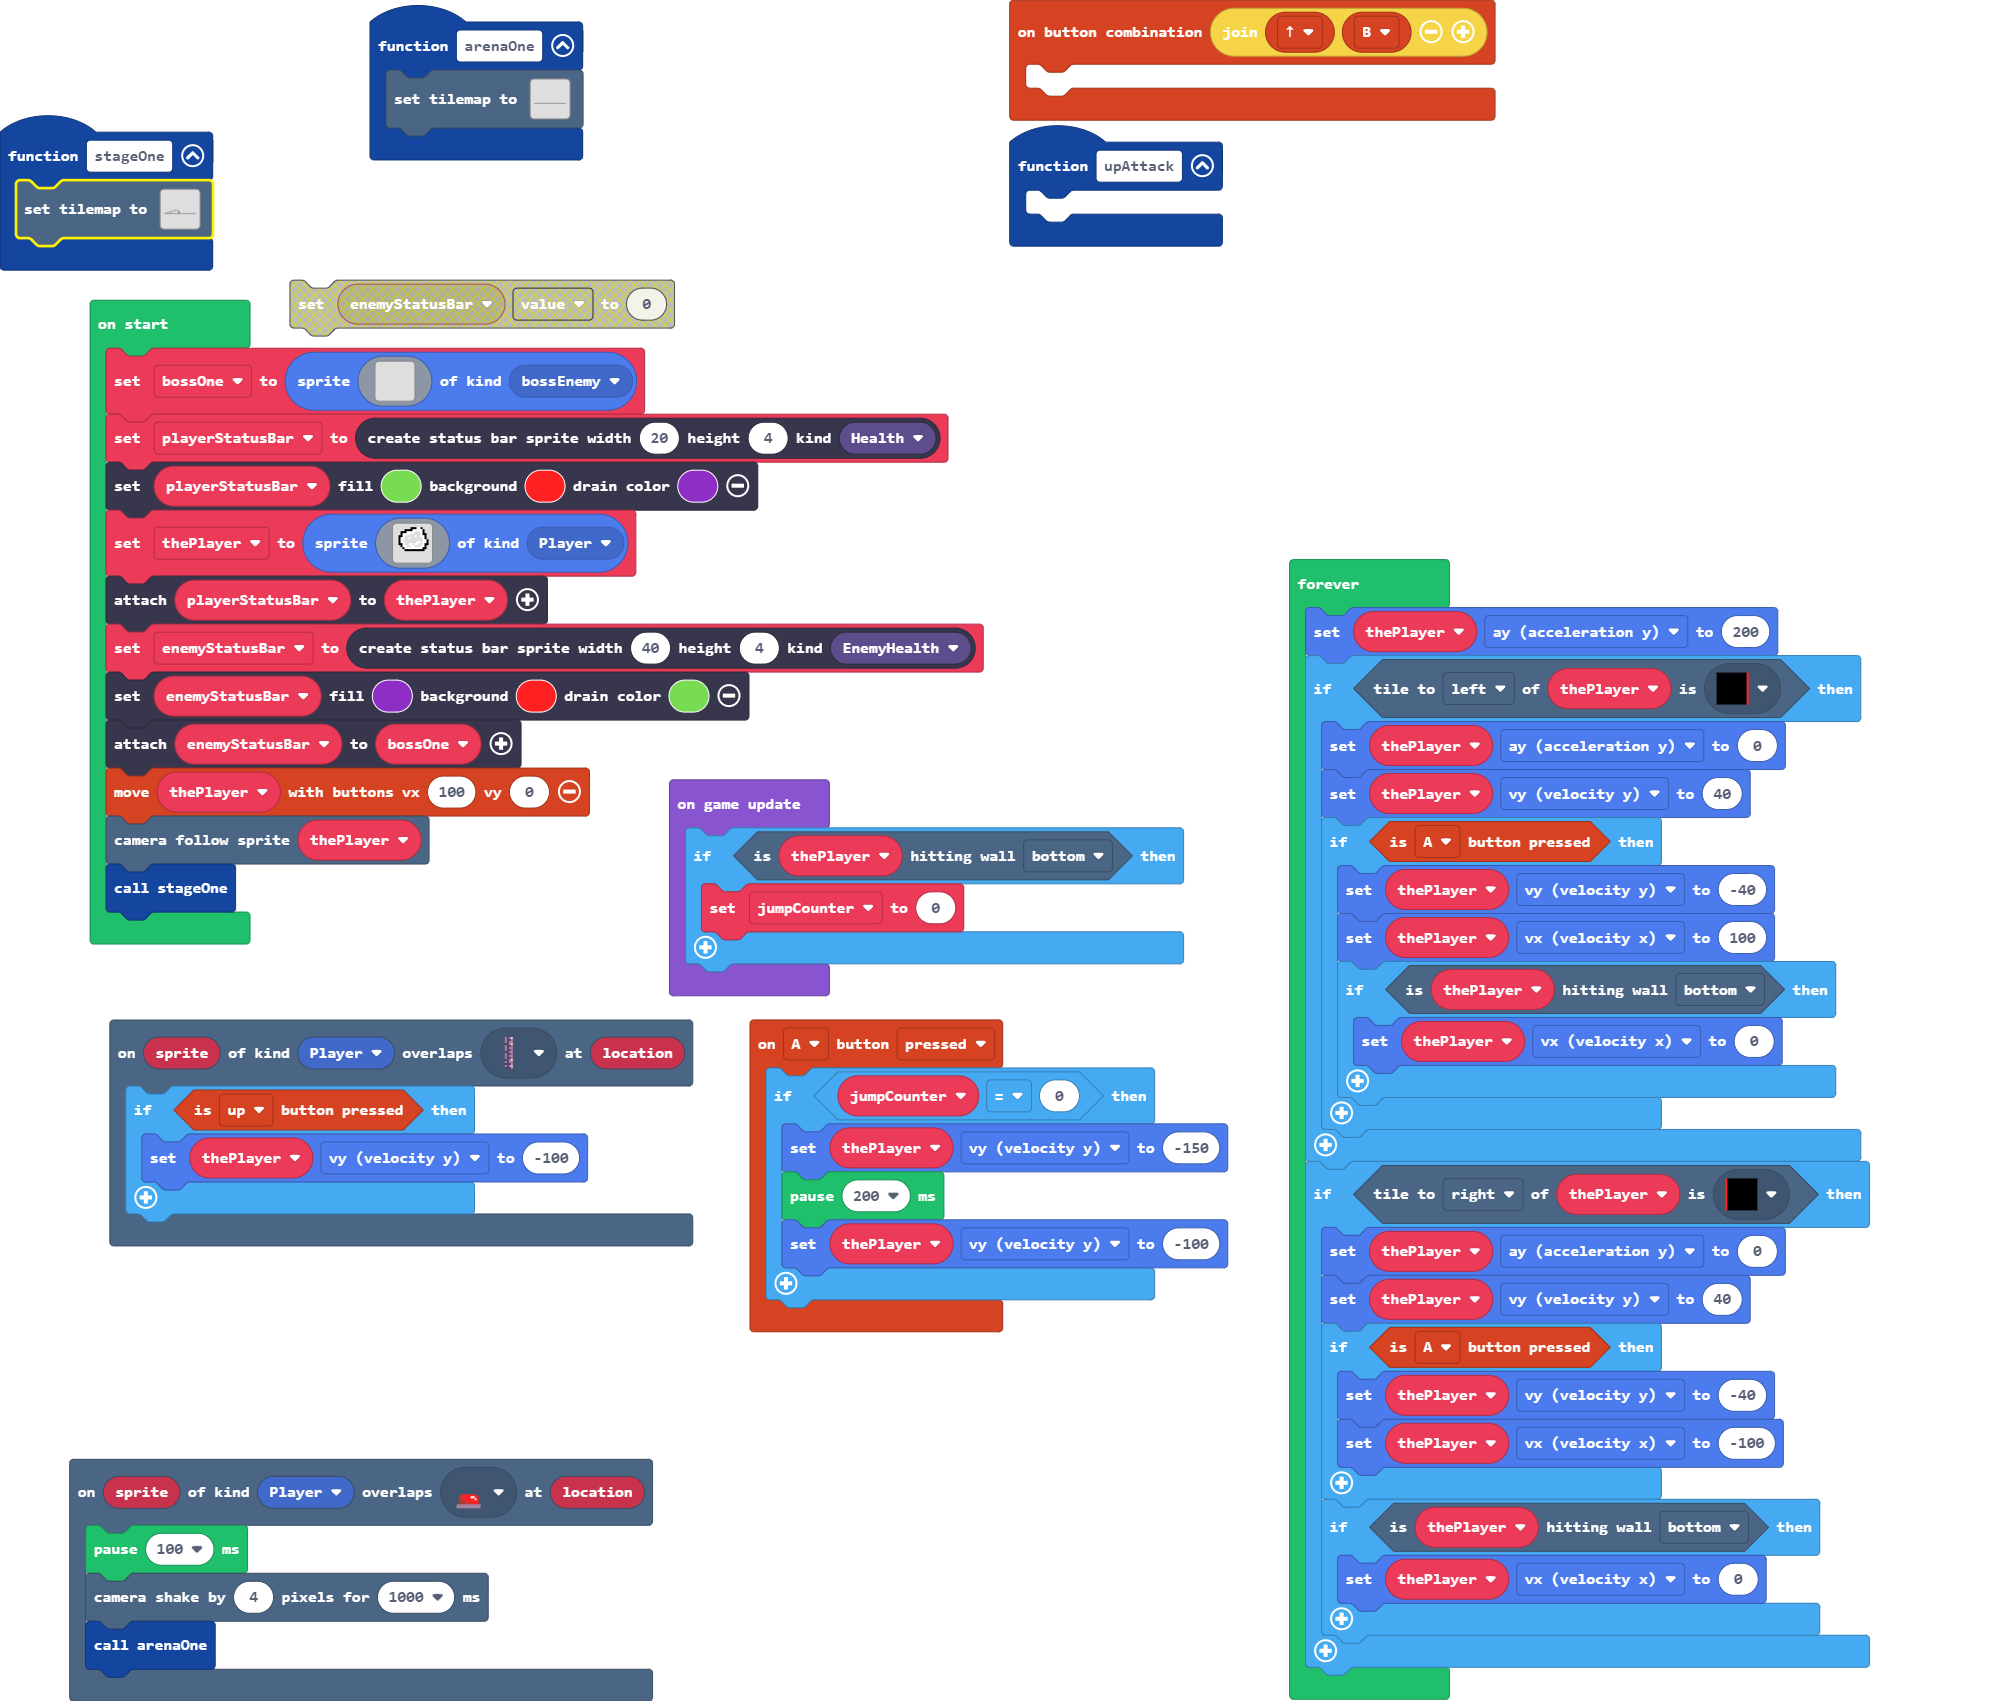
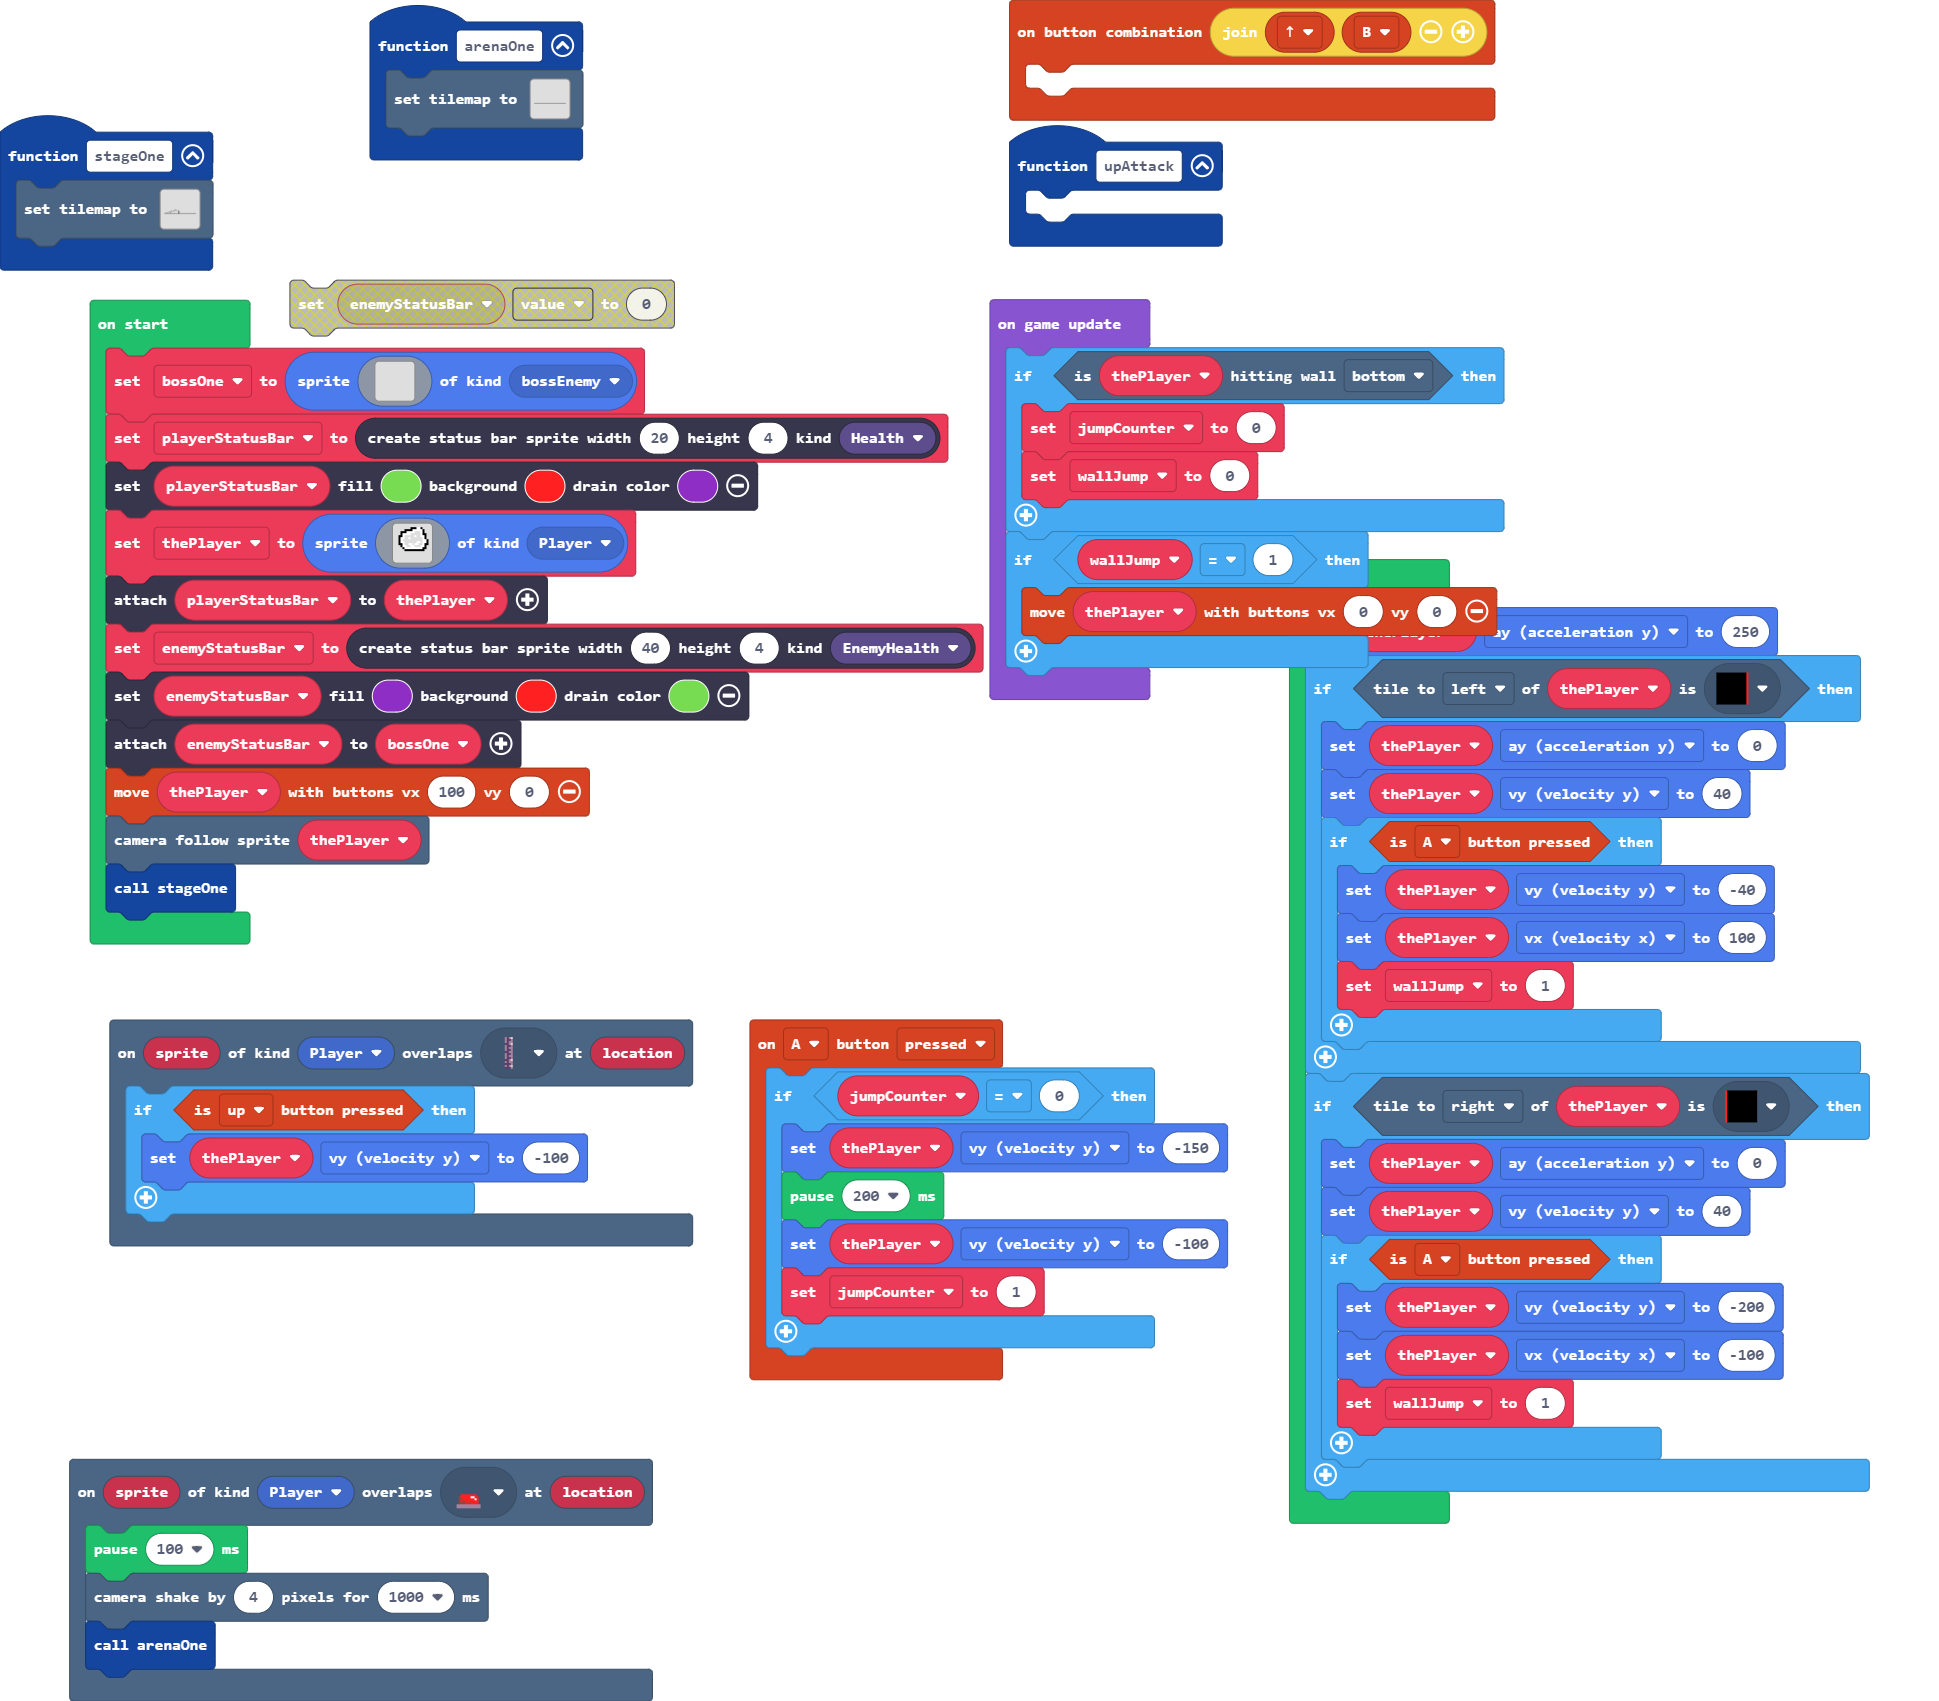
Update main.blocks, main.ts

diff --git a/main.ts b/main.ts
@@ -11,6 +11,7 @@ controller.A.onEvent(ControllerButtonEvent.Pressed, function () {
         thePlayer.vy = -150
         pause(200)
         thePlayer.vy = -100
+        jumpCounter = 1
     }
 })
 scene.onOverlapTile(SpriteKind.Player, assets.tile`myTile4`, function (sprite, location) {
@@ -30,6 +31,7 @@ function stageOne () {
 function arenaOne () {
     tiles.setTilemap(tilemap`level1`)
 }
+let wallJump = 0
 let jumpCounter = 0
 let thePlayer: Sprite = null
 let bossOne = sprites.create(img`
@@ -80,30 +82,30 @@ stageOne()
 game.onUpdate(function () {
     if (thePlayer.isHittingTile(CollisionDirection.Bottom)) {
         jumpCounter = 0
+        wallJump = 0
+    }
+    if (wallJump == 1) {
+        controller.moveSprite(thePlayer, 0, 0)
     }
 })
 forever(function () {
-    thePlayer.ay = 200
+    thePlayer.ay = 250
     if (thePlayer.tileKindAt(TileDirection.Left, assets.tile`myTile2`)) {
         thePlayer.ay = 0
         thePlayer.vy = 40
         if (controller.A.isPressed()) {
             thePlayer.vy = -40
             thePlayer.vx = 100
-            if (thePlayer.isHittingTile(CollisionDirection.Bottom)) {
-                thePlayer.vx = 0
-            }
+            wallJump = 1
         }
     }
     if (thePlayer.tileKindAt(TileDirection.Right, assets.tile`myTile3`)) {
         thePlayer.ay = 0
         thePlayer.vy = 40
         if (controller.A.isPressed()) {
-            thePlayer.vy = -40
+            thePlayer.vy = -200
             thePlayer.vx = -100
-        }
-        if (thePlayer.isHittingTile(CollisionDirection.Bottom)) {
-            thePlayer.vx = 0
+            wallJump = 1
         }
     }
 })
